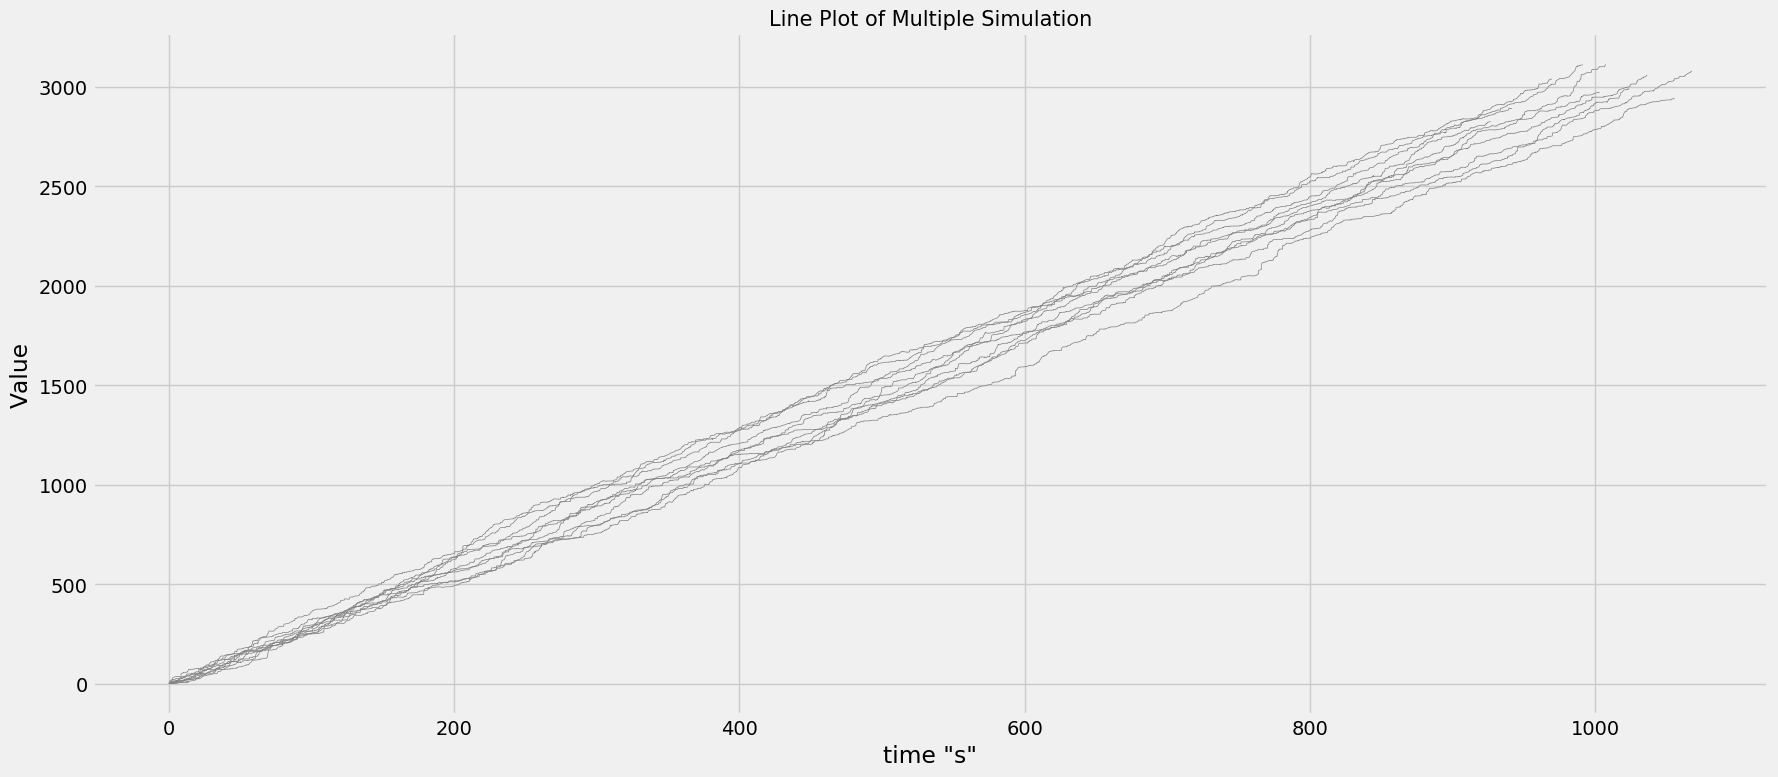
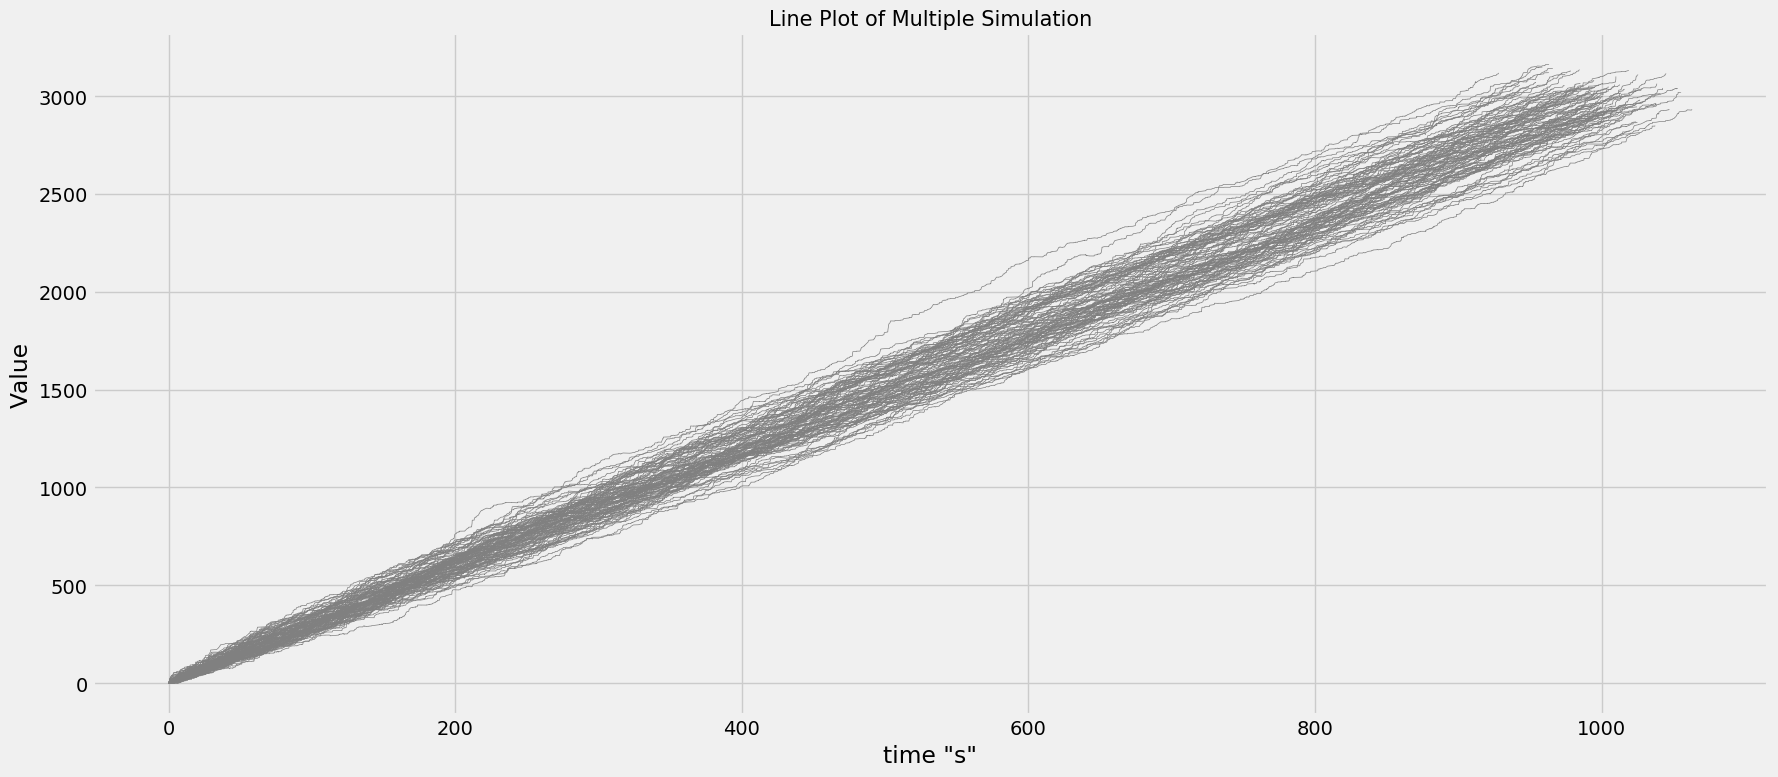
update

diff --git a/setup.py b/setup.py
@@ -86,22 +86,45 @@ def task2():
 
 
 def task3():
+    """
+    Plot the multiple simulation of a set of parameters
+    :return:
+    """
     mu = 1  # mean = 1 / beta
     sigma = 1  # mean = 1 / beta
     lamb = 1  # mean = 1 / beta
-    beta = 1
+    beta = 0.1
     n_sample = 1000
-    n_sim = 10
+    n_sim = 100
     func_dist_y = select_dist(beta)
     _, _, _, mat_s, mat_p, mat_a, mat_m = sl.sim_multi(mu, sigma, lamb, func_dist_y, n_sample, n_sim)
-    vi.line_multi_pa(mat_s, mat_p, mat_a, '9')
+    vi.line_multi_pa(mat_s, mat_p, mat_a, '10')
+
+
+def task3_2dim():
+    mu = 1  # mean = 1 / beta
+    sigma = 1  # mean = 1 / beta
+    lamb = 1  # mean = 1 / beta
+    n_sample = 1000
+    n_sim = 100
+    # Different beta s
+    beta_1 = 0.1
+    beta_2 = 1
+    func_dist_y_1 = select_dist(beta_1)
+    func_dist_y_2 = select_dist(beta_2)
+    # Simulation
+    _, _, _, mat_s_1, mat_p_1, mat_a_1, _ = sl.sim_multi(mu, sigma, lamb, func_dist_y_1, n_sample, n_sim)
+    _, _, _, mat_s_2, mat_p_2, mat_a_2, _ = sl.sim_multi(mu, sigma, lamb, func_dist_y_2, n_sample, n_sim)
+    # Plot the result
+    vi.line_multi_pa_2(mat_s_1, mat_p_1, mat_a_1, mat_s_2, mat_p_2, mat_a_2, '11')
 
 
 def main():
     # test()
     # task1()
     # task2()
-    task3()
+    # task3()
+    task3_2dim()
 
 
 main()

diff --git a/visualize.py b/visualize.py
@@ -157,3 +157,24 @@ def line_multi_pa(mat_s, mat_p, mat_a, name_fig, whe_show=False):
     if whe_show:  # Whether to show the plot
         plt.show()
     fig.savefig('images/' + name_fig + '.png', bbox_inches='tight')
+
+
+def line_multi_pa_2(mat_s_1, mat_p_1, mat_a_1, mat_s_2, mat_p_2, mat_a_2, name_fig, whe_show=False):
+    n_sim = len(mat_p_1[:, 1])
+    # if n_sim != len(mat_a_1[:, 1]):
+    #     logging.error("len(mat_p[:, 1]) and len(mat_a[:, 1]) are not equal!")
+    fig = plt.figure(figsize=(18, 8))
+    plt.style.use("fivethirtyeight")
+    for i in range(n_sim):
+        list_ss_1, list_pa_1 = inter_pa(mat_s_1[i, :], mat_p_1[i, :], mat_a_1[i, :])
+        list_ss_2, list_pa_2 = inter_pa(mat_s_2[i, :], mat_p_2[i, :], mat_a_2[i, :])
+        plt.plot(list_ss_1, list_pa_1, linewidth=0.5, c='tomato')
+        plt.plot(list_ss_2, list_pa_2, linewidth=0.5, c='lightskyblue')
+    plt.xlabel('time "s"')
+    plt.ylabel('Value')
+    plt.title('Line Plot of Multiple Simulation from Different Parameters', fontsize=15)
+    plt.tight_layout()
+    if whe_show:  # Whether to show the plot
+        plt.show()
+    fig.savefig('images/' + name_fig + '.png', bbox_inches='tight')
+
